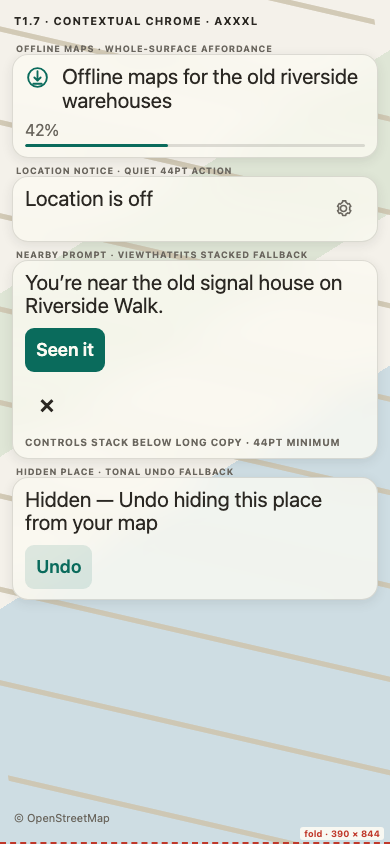
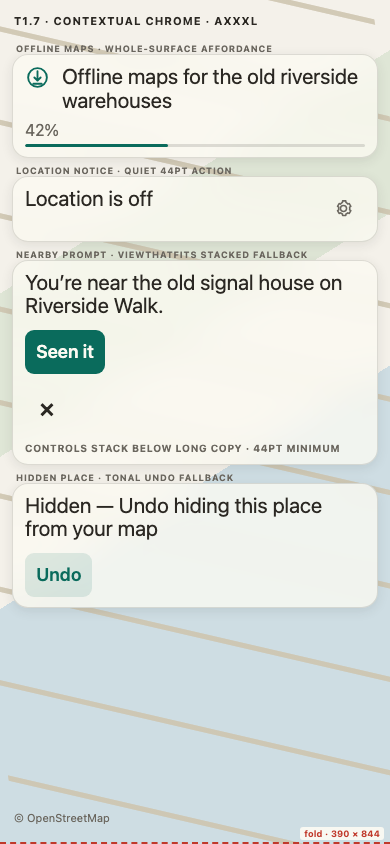
Match contextual chrome AX fallback spacing

diff --git a/docs/design/design-system/t1.7-contextual-chrome-ax.html b/docs/design/design-system/t1.7-contextual-chrome-ax.html
@@ -16,7 +16,7 @@
   .toast { display:grid; gap:10px; padding:10px 12px; border:1px solid var(--hairline); border-radius:16px; background:rgba(251,250,242,.78); box-shadow:0 3px 12px rgba(43,40,35,.1); -webkit-backdrop-filter:blur(16px) saturate(120%); backdrop-filter:blur(16px) saturate(120%); }
   .row { display:flex; align-items:flex-start; gap:12px; min-width:0; }.message { min-width:0; flex:1; font-size:21px; line-height:1.12; }.icon { flex:none; width:25px; height:25px; color:var(--accent); }
   .action { min-width:44px; min-height:44px; display:grid; place-items:center; border-radius:9px; font-size:18px; font-weight:600; white-space:nowrap; }.quiet { color:var(--muted); }.filled { padding:0 11px; background:var(--accent); color:var(--accent-contrast); }.tonal { padding:0 11px; background:rgba(10,107,92,.12); color:var(--accent); }.dismiss { color:var(--ink); font-size:25px; }
-  .fallback { display:grid; gap:10px; }.fallback > .action { justify-self:start; }.fallback-actions { display:flex; gap:12px; align-items:center; }.progress { display:grid; gap:4px; }.count { color:var(--muted); font-size:16px; line-height:1.1; }.track { height:3px; overflow:hidden; border-radius:99px; background:var(--hairline); }.fill { width:42%; height:3px; border-radius:99px; background:var(--accent); }
+  .fallback { display:grid; gap:12px; }.fallback > .action { justify-self:start; }.fallback-actions { display:flex; gap:12px; align-items:center; }.progress { display:grid; gap:4px; }.count { color:var(--muted); font-size:16px; line-height:1.1; }.track { height:3px; overflow:hidden; border-radius:99px; background:var(--hairline); }.fill { width:42%; height:3px; border-radius:99px; background:var(--accent); }
   .fallback-note { color:var(--muted); font-size:10px; font-weight:700; letter-spacing:.06em; text-transform:uppercase; }.attribution { position:absolute; z-index:1; left:14px; bottom:20px; color:var(--muted); font-size:11px; }.fold { position:absolute; z-index:4; left:0; right:0; bottom:0; border-top:2px dashed #C0392B; }.fold-label { position:absolute; z-index:4; right:6px; bottom:4px; padding:1px 4px; border-radius:3px; background:rgba(251,250,242,.94); color:#C0392B; font-size:9px; font-weight:700; } svg{overflow:visible}.stroke{fill:none;stroke:currentColor;stroke-linecap:round;stroke-linejoin:round;stroke-width:1.8}
 </style>
 </head>
